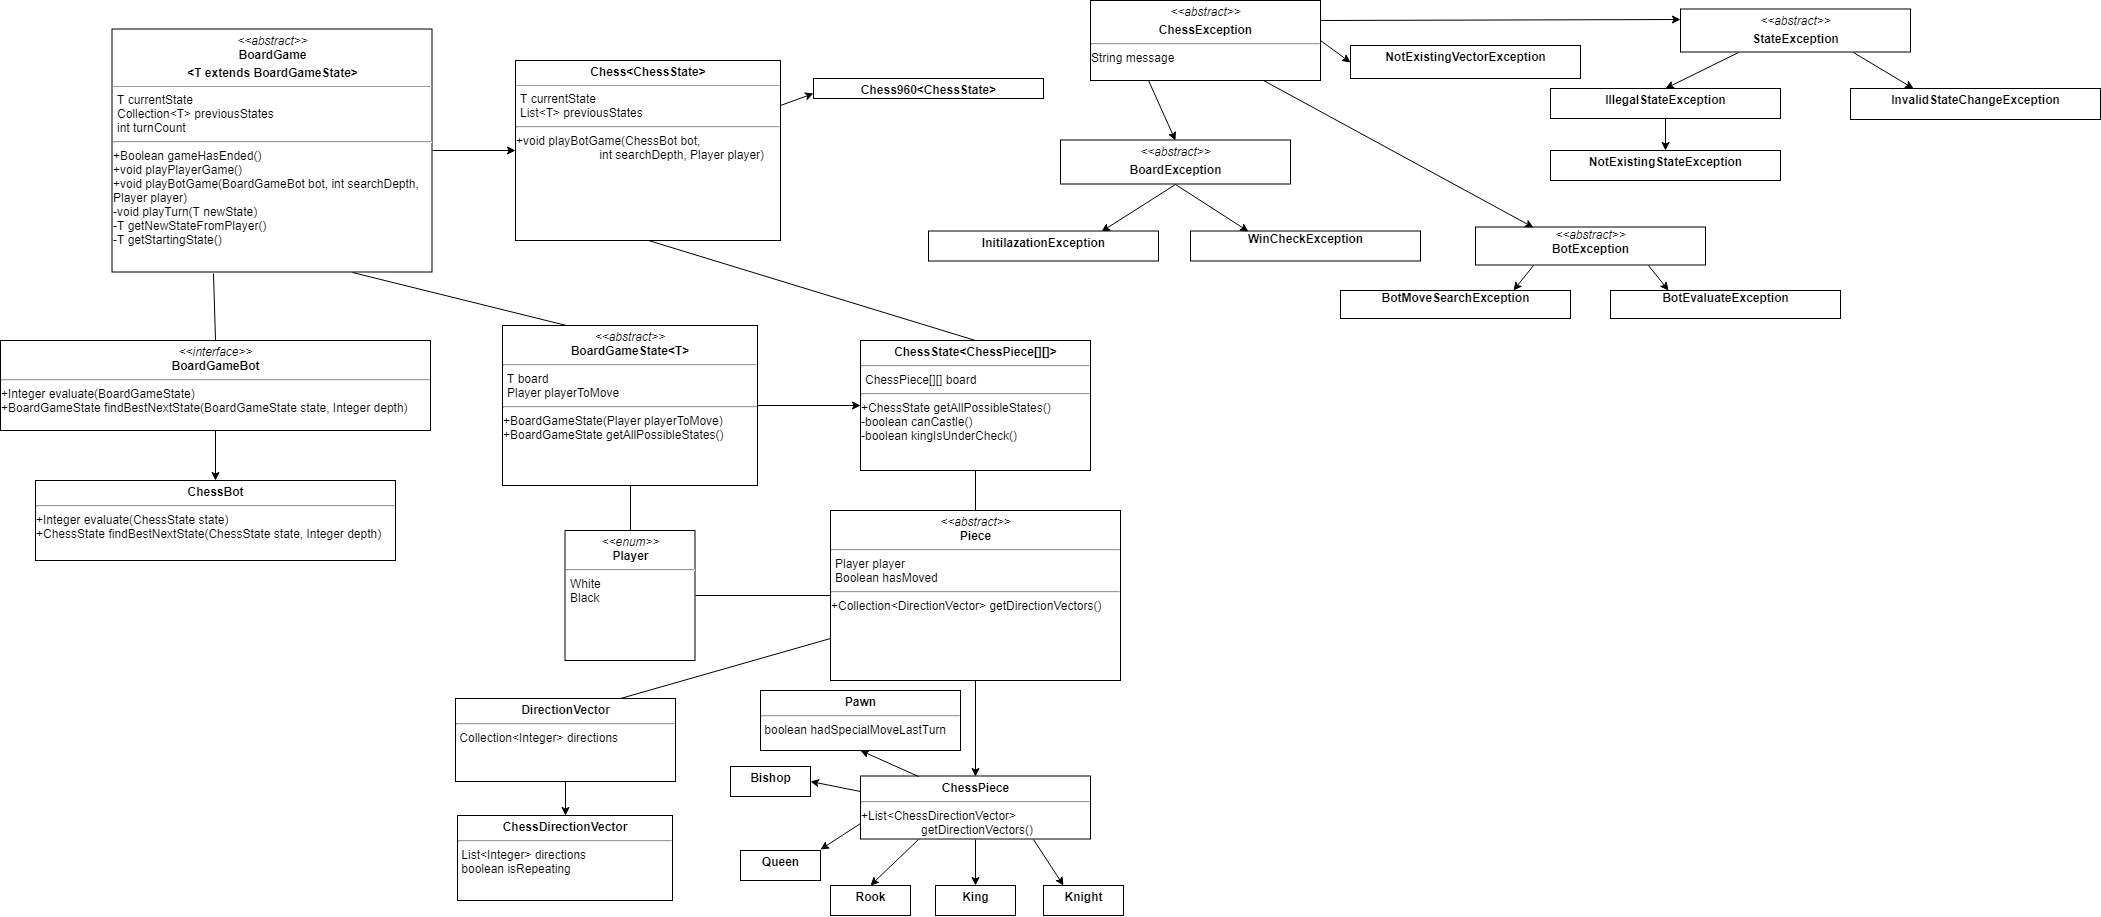
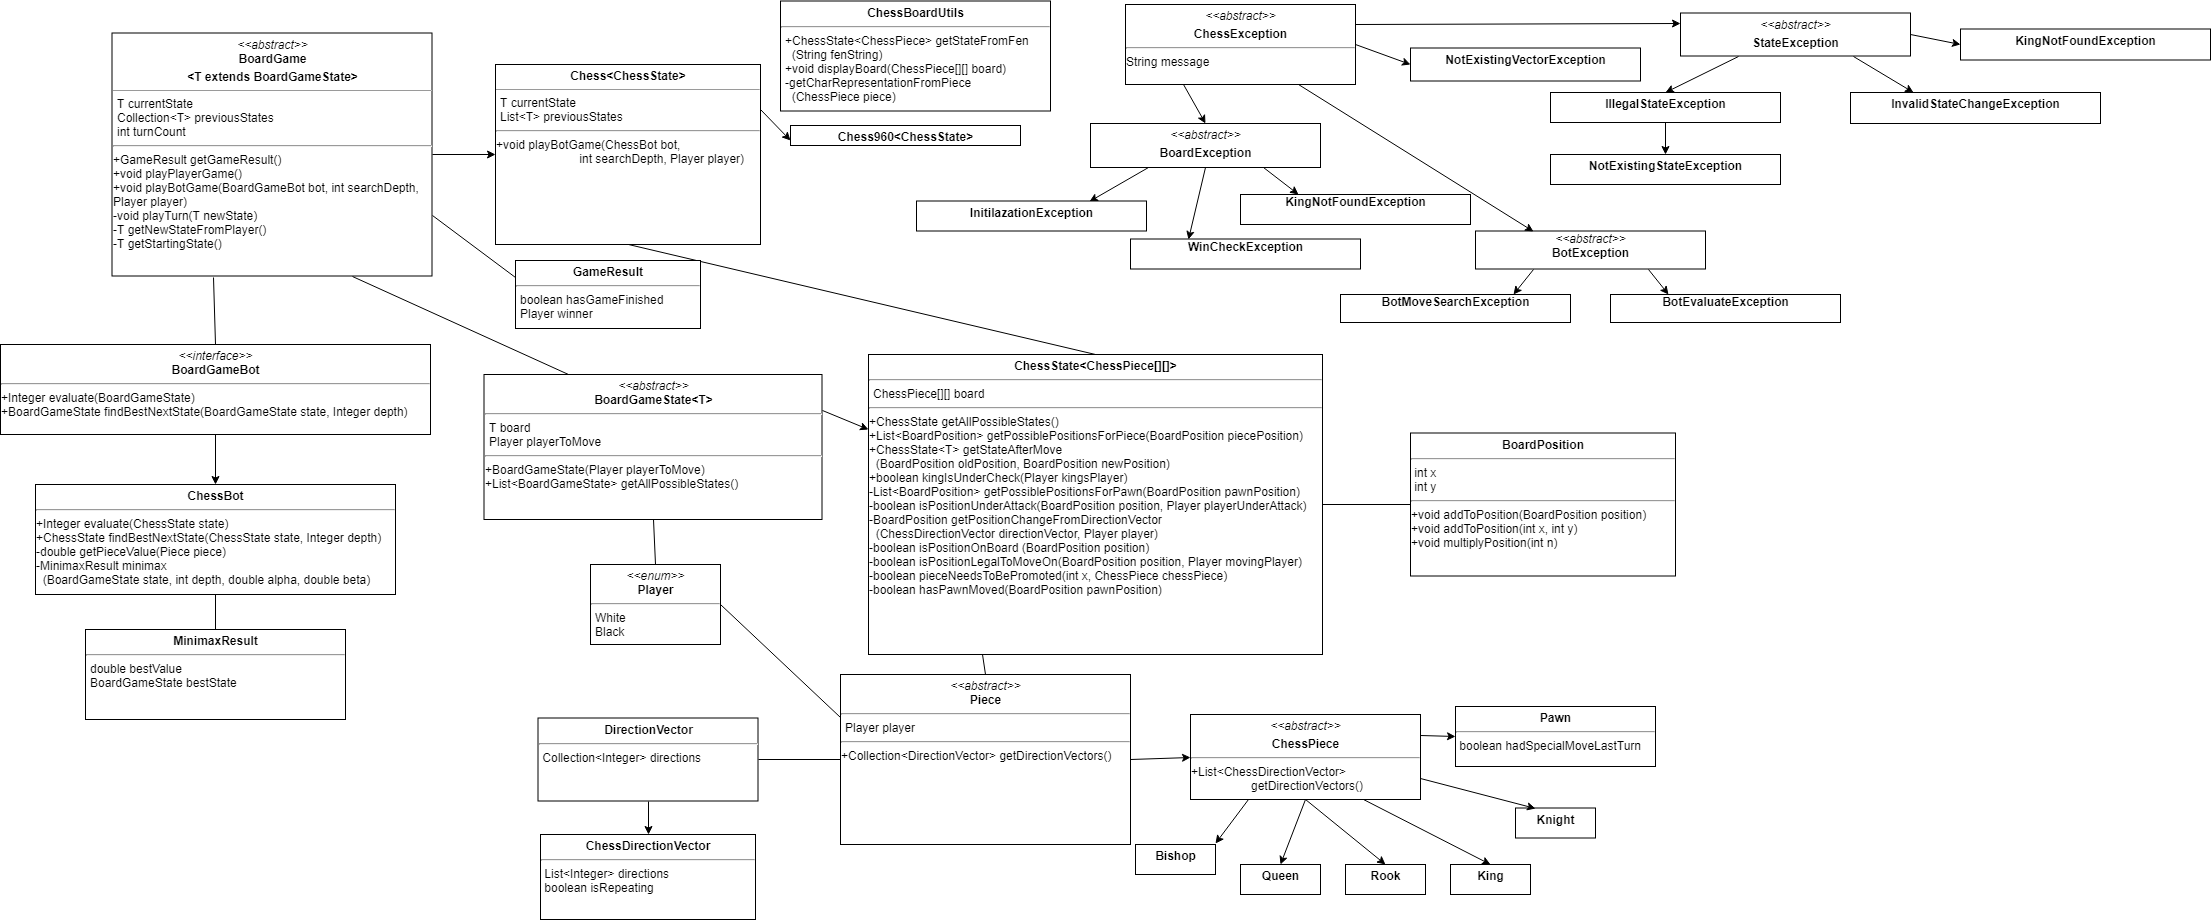
Updated uml with all the new functions, minor fixes

diff --git a/src/main/java/boardgame/Chess.java b/src/main/java/boardgame/Chess.java
@@ -3,7 +3,7 @@ package boardgame;
 import bots.BoardGameBot;
 import bots.ChessBot;
 import enums.Player;
-import exceptions.stateExceptions.KingNotFoundException;
+import exceptions.boardExceptions.KingNotFoundException;
 import gameStates.BoardGameState;
 import gameStates.ChessState;
 import pieces.chessPieces.ChessPiece;
@@ -88,7 +88,7 @@ public class Chess<T extends ChessState> extends BoardGame
     }
 
     @Override
-    public void playBotGame(BoardGameBot bot, Player player)
+    public void playBotGame(BoardGameBot bot, int searchDepth, Player player)
     {
         GameResult gameResult = getGameResult();
         ChessBot chessBot = new ChessBot();
@@ -102,7 +102,7 @@ public class Chess<T extends ChessState> extends BoardGame
             }
             else
             {
-                currentState = bot.findBestNextState(currentState, 5);
+                currentState = bot.findBestNextState(currentState, searchDepth);
             }
 
             turnCount++;

diff --git a/src/main/java/gameStates/ChessState.java b/src/main/java/gameStates/ChessState.java
@@ -3,7 +3,7 @@ package gameStates;
 import boardgame.BoardPosition;
 import directionVectors.ChessDirectionVector;
 import enums.Player;
-import exceptions.stateExceptions.KingNotFoundException;
+import exceptions.boardExceptions.KingNotFoundException;
 import pieces.chessPieces.ChessPiece;
 import pieces.chessPieces.King;
 import pieces.chessPieces.Pawn;

diff --git a/src/main/java/boardgame/BoardGame.java b/src/main/java/boardgame/BoardGame.java
@@ -28,7 +28,7 @@ public abstract class BoardGame<T extends BoardGameState>
 
     public abstract void playGame();
 
-    public abstract void playBotGame(BoardGameBot bot, Player player);
+    public abstract void playBotGame(BoardGameBot bot, int searchDepth, Player player);
 
     protected abstract T getNewStateFromPlayer();
 }

diff --git a/src/main/java/exceptions/boardExceptions/KingNotFoundException.java b/src/main/java/exceptions/boardExceptions/KingNotFoundException.java
@@ -1,9 +1,9 @@
-package exceptions.stateExceptions;
+package exceptions.boardExceptions;
 
 /**
  * Created by divided on 21.03.2018.
  */
-public class KingNotFoundException extends StateException
+public class KingNotFoundException extends BoardException
 {
     public KingNotFoundException(String message)
     {

diff --git a/src/main/java/bots/ChessBot.java b/src/main/java/bots/ChessBot.java
@@ -1,8 +1,7 @@
 package bots;
 
-import boardgame.BoardPosition;
 import enums.Player;
-import exceptions.stateExceptions.KingNotFoundException;
+import exceptions.boardExceptions.KingNotFoundException;
 import gameStates.BoardGameState;
 import gameStates.ChessState;
 import pieces.Piece;

diff --git a/src/main/java/Main.java b/src/main/java/Main.java
@@ -11,6 +11,6 @@ public class Main
     public static void main(String[] args)
     {
         Chess<ChessState> chess = new Chess<ChessState>();
-        chess.playBotGame(new ChessBot(), Player.WHITE);
+        chess.playBotGame(new ChessBot(), 4, Player.WHITE);
     }
 }
